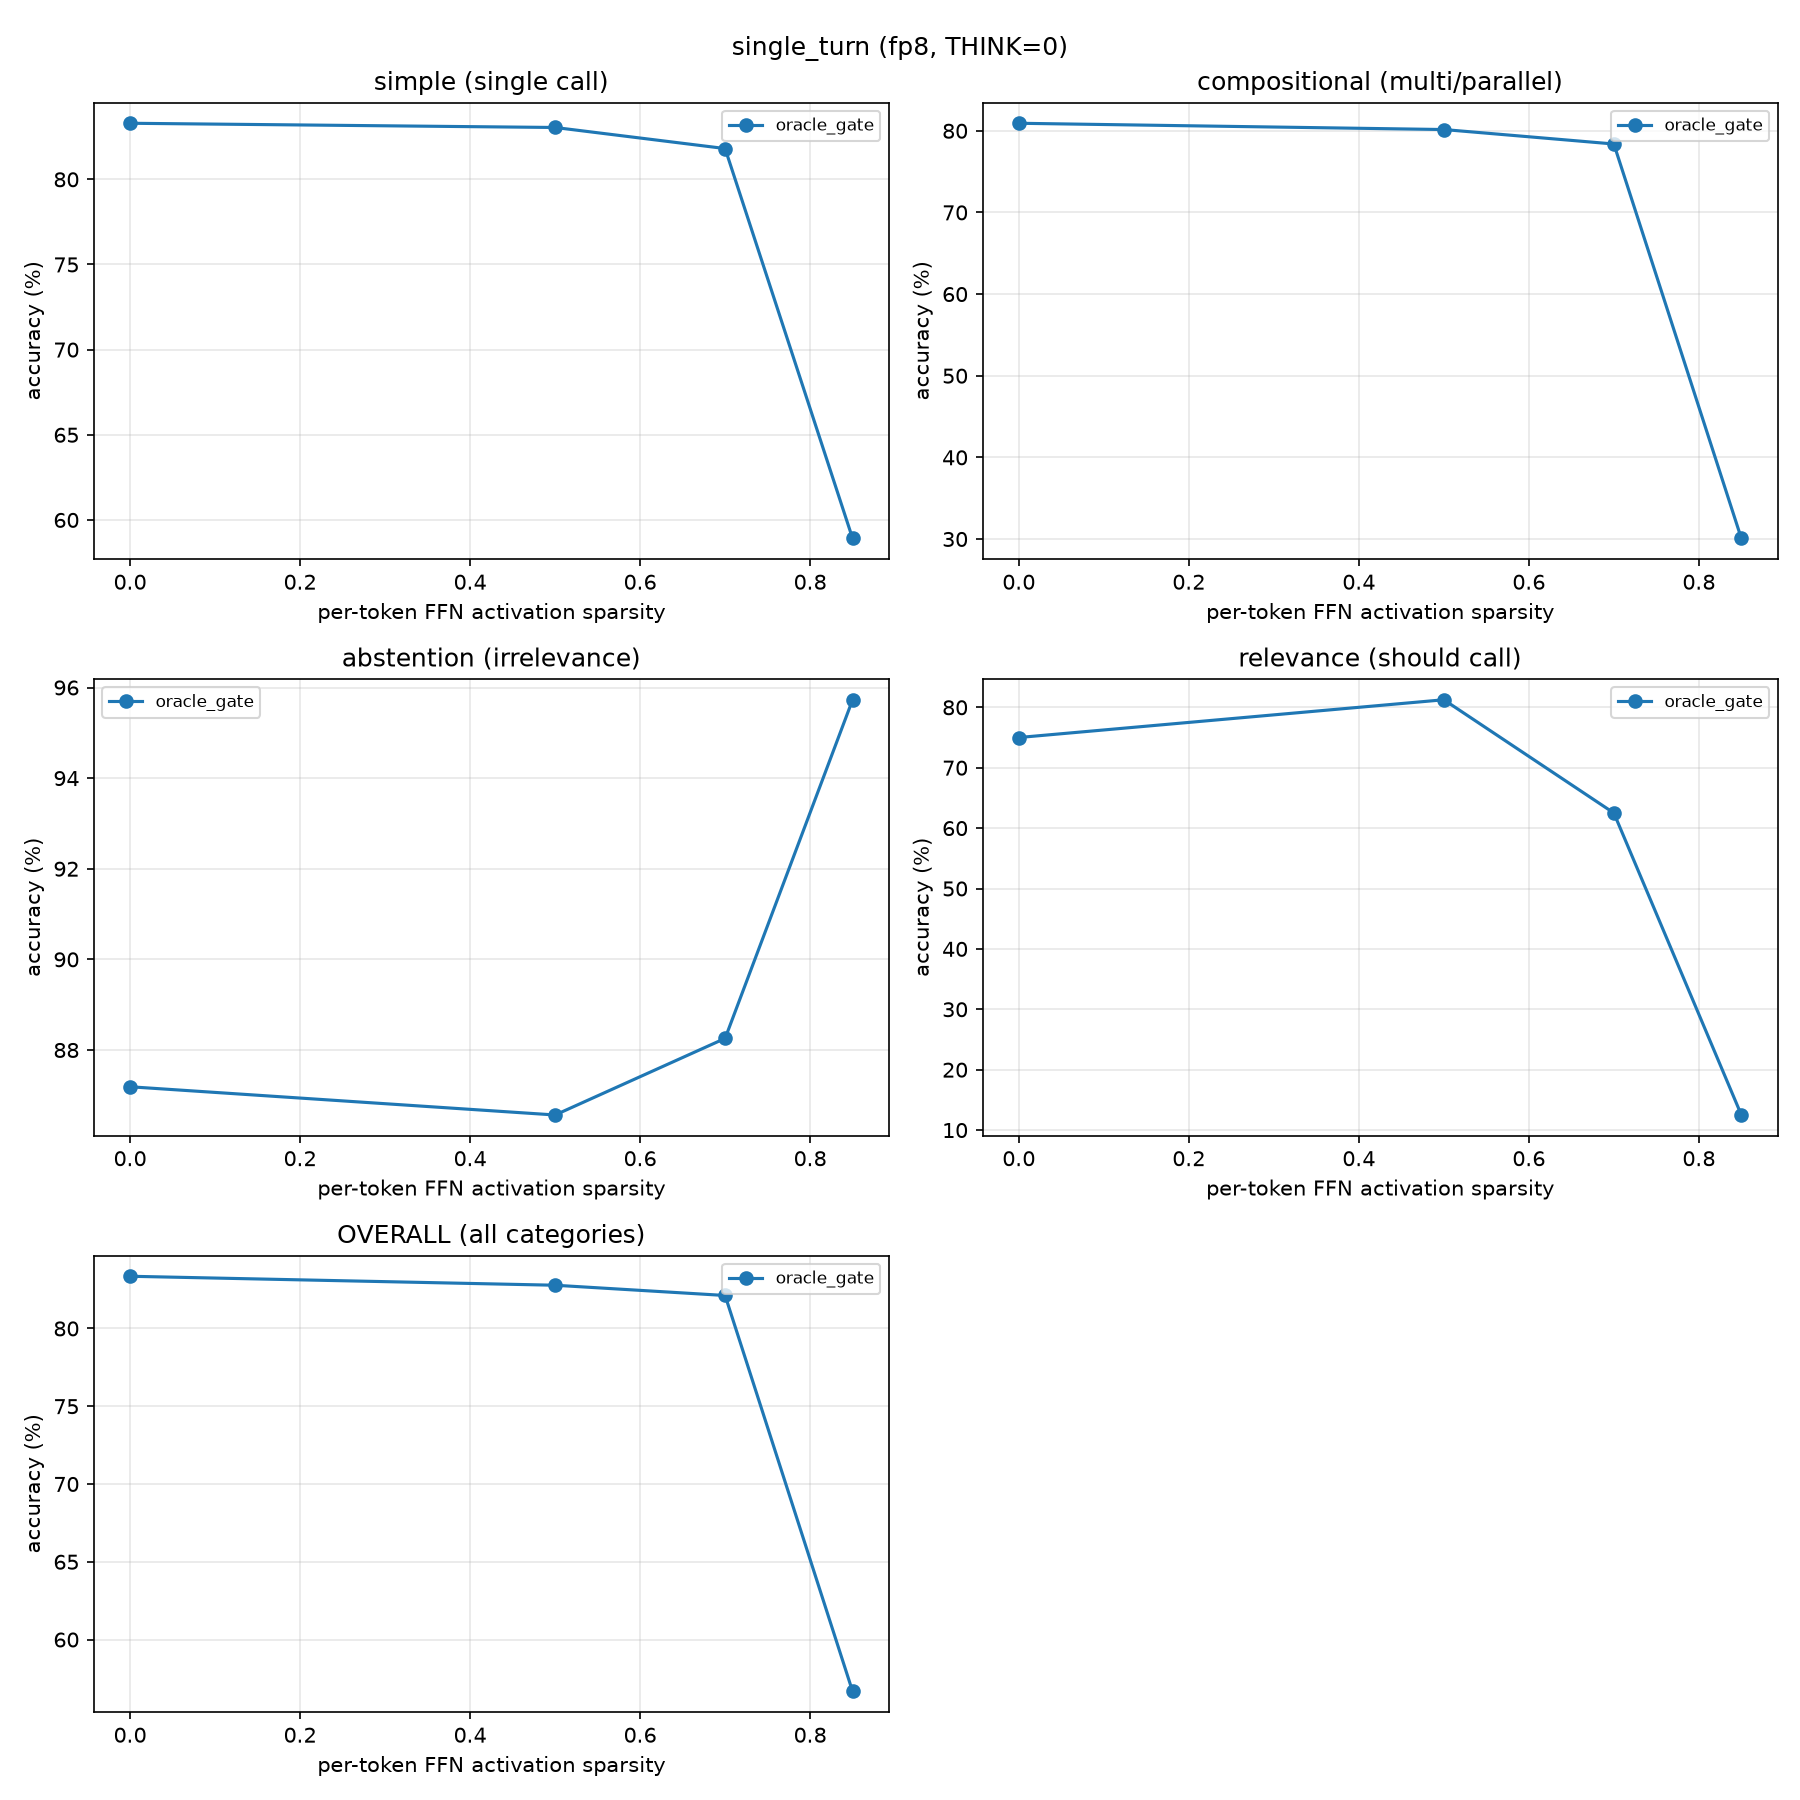
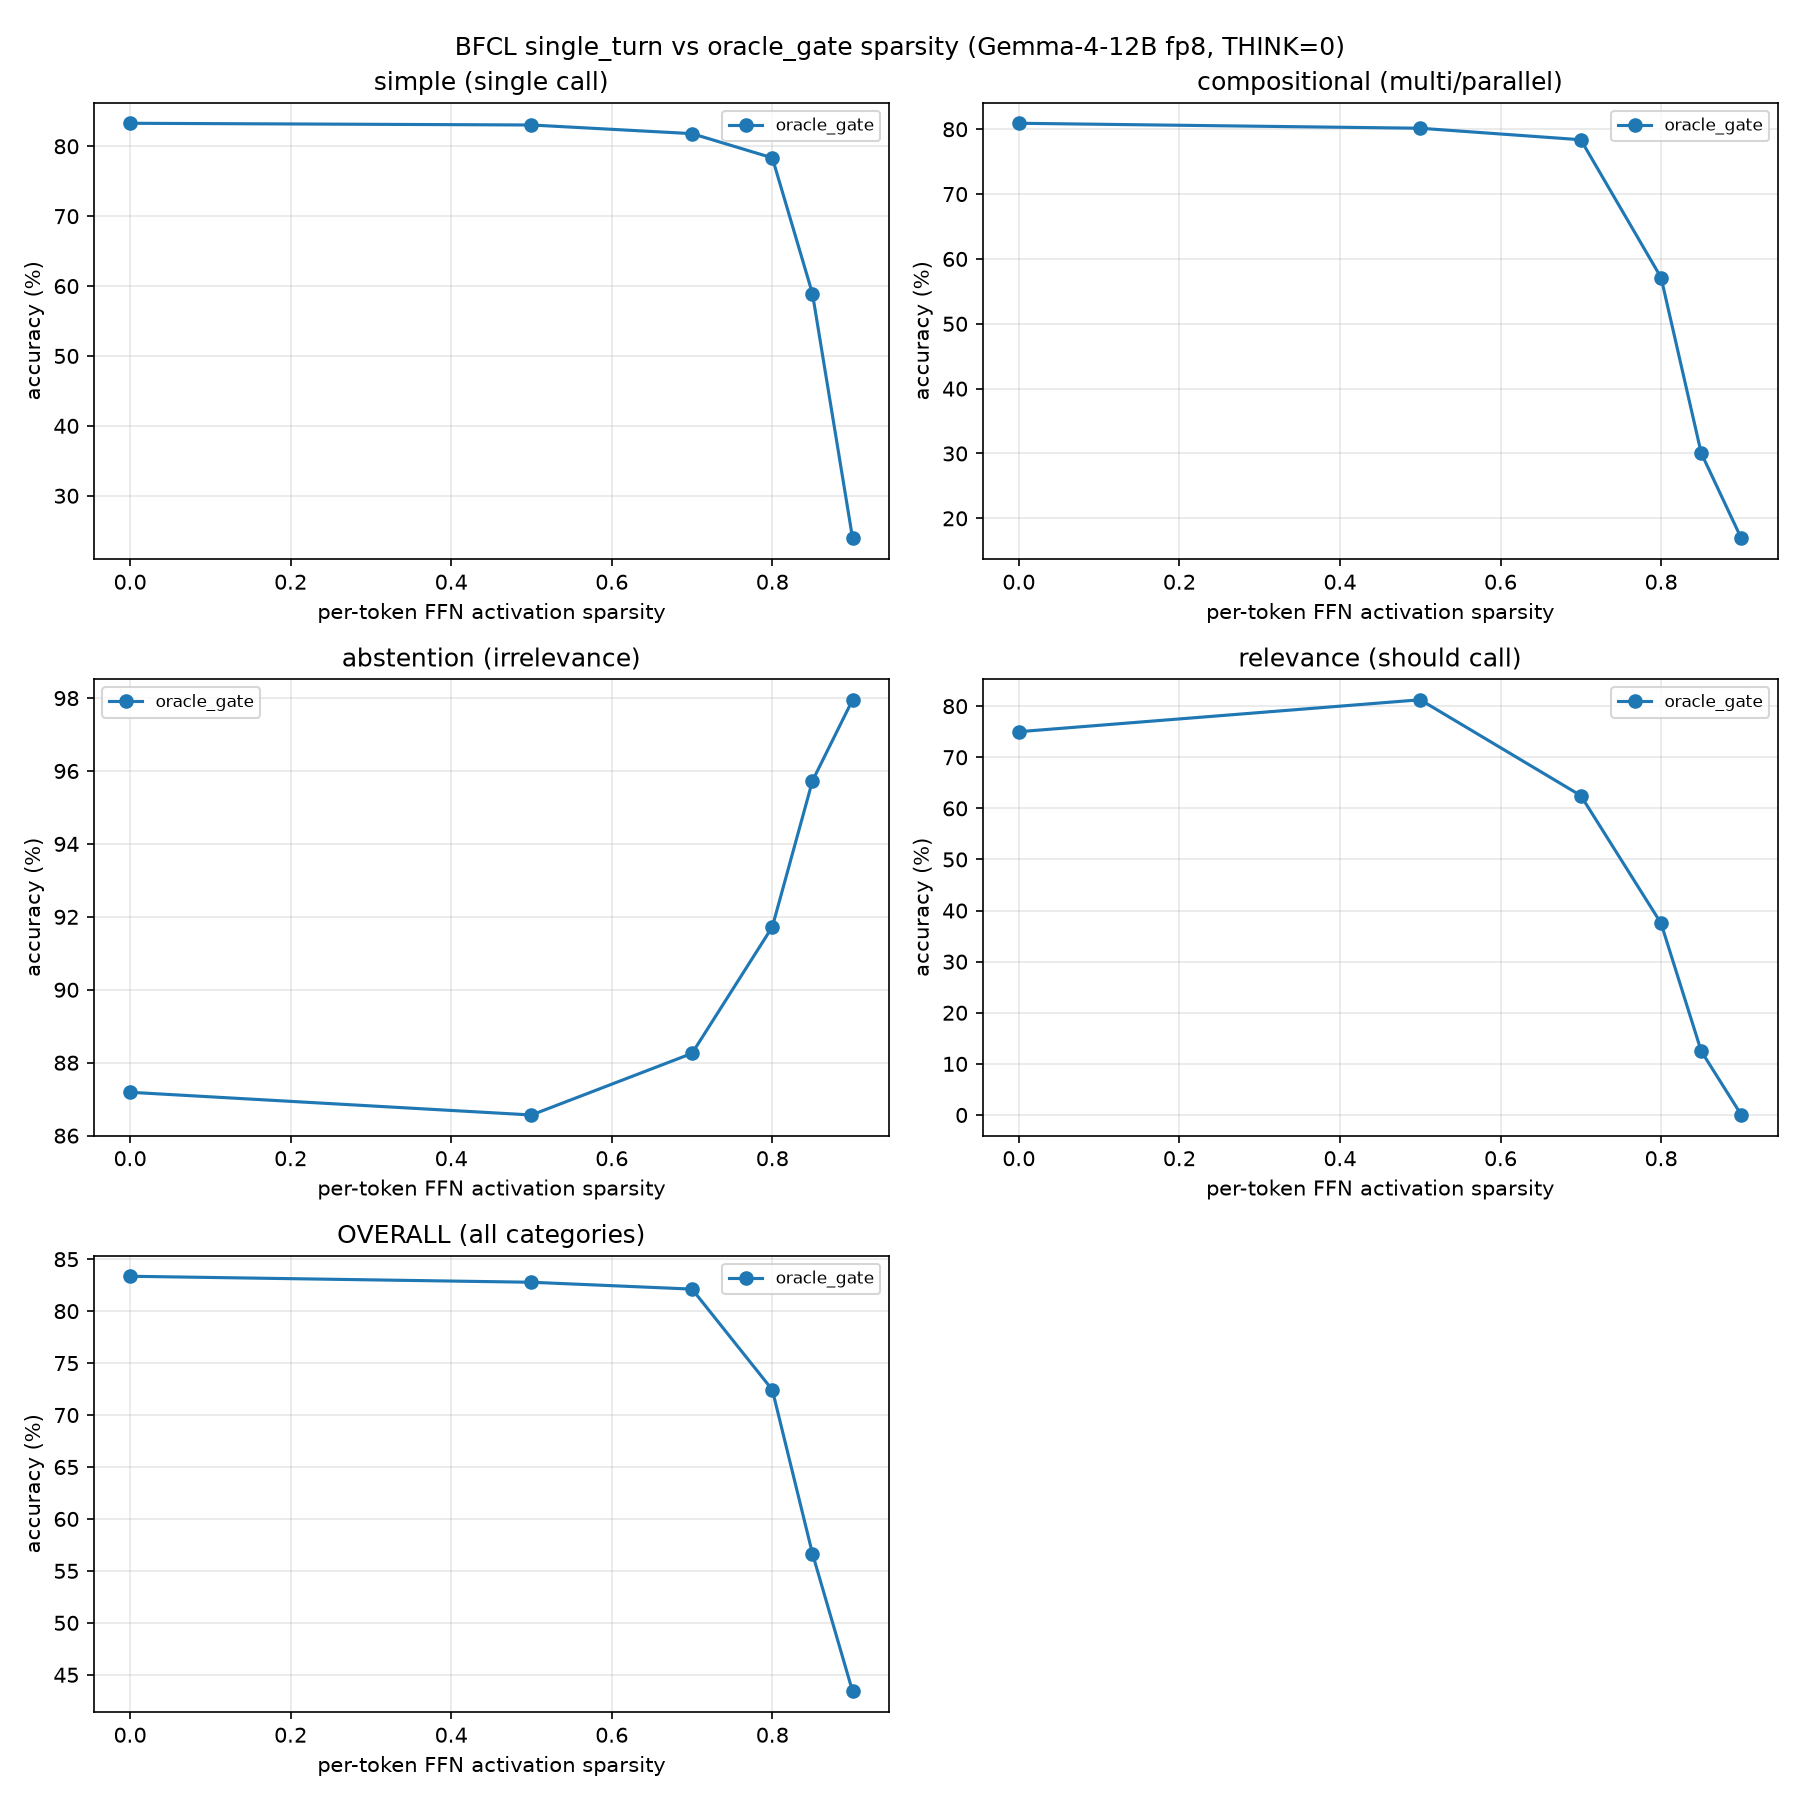
bfcl: single_turn sparsity top-up to 0.8/0.9 (Gemma-4-12B fp8, THINK=0)
Fills the round grid: single_turn now {0,0.5,0.7,0.8,0.85,0.9}. OVERALL 83.4 -> 82.8
-> 82.1 -> 72.4(0.8) -> 56.7(0.85) -> 43.4(0.9). abstention rises monotonically with
sparsity (87->98%), relevance/compositional collapse -- the model calls functions
less as sparsity rises.

diff --git a/results/bfcl_gemma4/single_turn/sweep_by_category.md b/results/bfcl_gemma4/single_turn/sweep_by_category.md
@@ -2,18 +2,18 @@
 
 ## oracle_gate
 
-| category | s=0 | s=0.5 | s=0.7 | s=0.85 |
-|---|---|---|---|---|
-| irrelevance | 89.17% | 89.17% | 89.58% | 93.33% |
-| live_irrelevance | 86.65% | 85.86% | 87.90% | 96.38% |
-| live_multiple | 76.35% | 75.59% | 72.84% | 22.13% |
-| live_parallel | 87.50% | 81.25% | 81.25% | 37.50% |
-| live_parallel_multiple | 54.17% | 54.17% | 62.50% | 16.67% |
-| live_relevance | 75.00% | 81.25% | 62.50% | 12.50% |
-| live_simple | 82.17% | 81.40% | 79.07% | 48.06% |
-| multiple | 93.50% | 92.50% | 92.50% | 54.00% |
-| parallel | 87.50% | 86.50% | 86.50% | 45.50% |
-| parallel_multiple | 88.50% | 88.50% | 87.00% | 33.50% |
-| simple_java | 65.00% | 66.00% | 65.00% | 54.00% |
-| simple_javascript | 78.00% | 76.00% | 70.00% | 54.00% |
-| simple_python | 89.25% | 89.25% | 89.25% | 67.75% |
+| category | s=0 | s=0.5 | s=0.7 | s=0.8 | s=0.85 | s=0.9 |
+|---|---|---|---|---|---|---|
+| irrelevance | 89.17% | 89.17% | 89.58% | 89.58% | 93.33% | 95.83% |
+| live_irrelevance | 86.65% | 85.86% | 87.90% | 92.31% | 96.38% | 98.53% |
+| live_multiple | 76.35% | 75.59% | 72.84% | 45.39% | 22.13% | 15.38% |
+| live_parallel | 87.50% | 81.25% | 81.25% | 68.75% | 37.50% | 6.25% |
+| live_parallel_multiple | 54.17% | 54.17% | 62.50% | 33.33% | 16.67% | 8.33% |
+| live_relevance | 75.00% | 81.25% | 62.50% | 37.50% | 12.50% | 0.00% |
+| live_simple | 82.17% | 81.40% | 79.07% | 72.09% | 48.06% | 20.93% |
+| multiple | 93.50% | 92.50% | 92.50% | 88.00% | 54.00% | 42.00% |
+| parallel | 87.50% | 86.50% | 86.50% | 76.50% | 45.50% | 10.00% |
+| parallel_multiple | 88.50% | 88.50% | 87.00% | 70.50% | 33.50% | 8.50% |
+| simple_java | 65.00% | 66.00% | 65.00% | 60.00% | 54.00% | 9.00% |
+| simple_javascript | 78.00% | 76.00% | 70.00% | 62.00% | 54.00% | 4.00% |
+| simple_python | 89.25% | 89.25% | 89.25% | 89.00% | 67.75% | 32.00% |

diff --git a/results/bfcl_gemma4/single_turn/sweep_by_group.md b/results/bfcl_gemma4/single_turn/sweep_by_group.md
@@ -4,30 +4,30 @@ Count-weighted accuracy (sum correct / sum total). s=0 = dense.
 
 ## simple (single call)
 
-| method | s=0 | s=0.5 | s=0.7 | s=0.85 |
-|---|---|---|---|---|
-| oracle_gate | 83.29% | 83.04% | 81.81% | 58.91% |
+| method | s=0 | s=0.5 | s=0.7 | s=0.8 | s=0.85 | s=0.9 |
+|---|---|---|---|---|---|---|
+| oracle_gate | 83.29% | 83.04% | 81.81% | 78.34% | 58.91% | 23.89% |
 
 ## compositional (multi/parallel)
 
-| method | s=0 | s=0.5 | s=0.7 | s=0.85 |
-|---|---|---|---|---|
-| oracle_gate | 80.92% | 80.15% | 78.38% | 30.06% |
+| method | s=0 | s=0.5 | s=0.7 | s=0.8 | s=0.85 | s=0.9 |
+|---|---|---|---|---|---|---|
+| oracle_gate | 80.92% | 80.15% | 78.38% | 57.12% | 30.06% | 16.89% |
 
 ## abstention (irrelevance)
 
-| method | s=0 | s=0.5 | s=0.7 | s=0.85 |
-|---|---|---|---|---|
-| oracle_gate | 87.19% | 86.57% | 88.26% | 95.73% |
+| method | s=0 | s=0.5 | s=0.7 | s=0.8 | s=0.85 | s=0.9 |
+|---|---|---|---|---|---|---|
+| oracle_gate | 87.19% | 86.57% | 88.26% | 91.73% | 95.73% | 97.95% |
 
 ## relevance (should call)
 
-| method | s=0 | s=0.5 | s=0.7 | s=0.85 |
-|---|---|---|---|---|
-| oracle_gate | 75.00% | 81.25% | 62.50% | 12.50% |
+| method | s=0 | s=0.5 | s=0.7 | s=0.8 | s=0.85 | s=0.9 |
+|---|---|---|---|---|---|---|
+| oracle_gate | 75.00% | 81.25% | 62.50% | 37.50% | 12.50% | 0.00% |
 
 ## OVERALL (all categories)
 
-| method | s=0 | s=0.5 | s=0.7 | s=0.85 |
-|---|---|---|---|---|
-| oracle_gate | 83.36% | 82.78% | 82.12% | 56.66% |
+| method | s=0 | s=0.5 | s=0.7 | s=0.8 | s=0.85 | s=0.9 |
+|---|---|---|---|---|---|---|
+| oracle_gate | 83.36% | 82.78% | 82.12% | 72.43% | 56.66% | 43.39% |